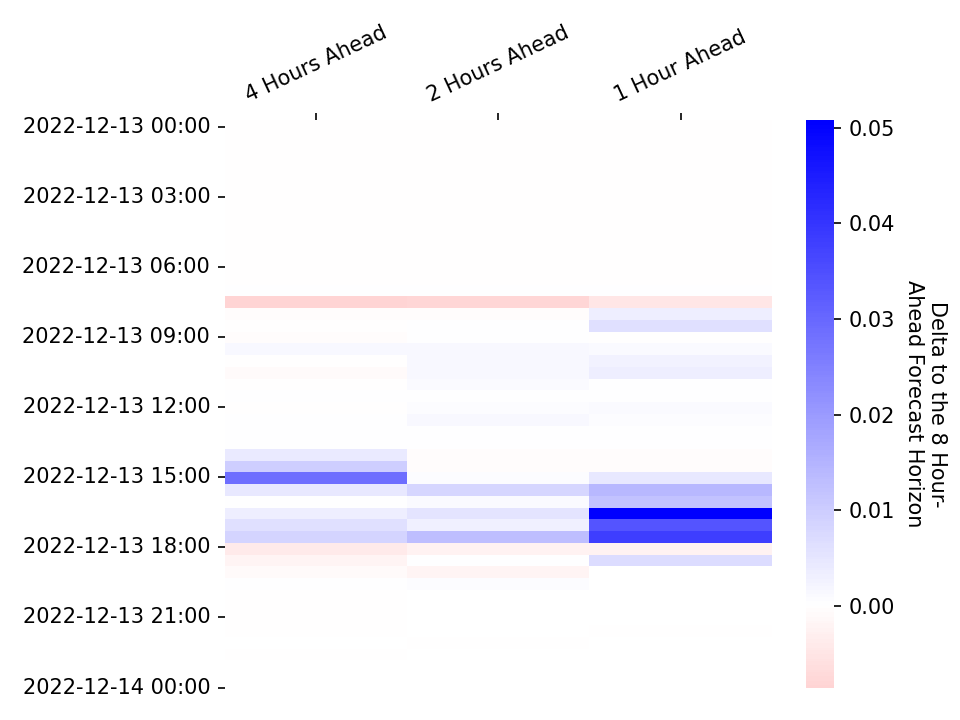
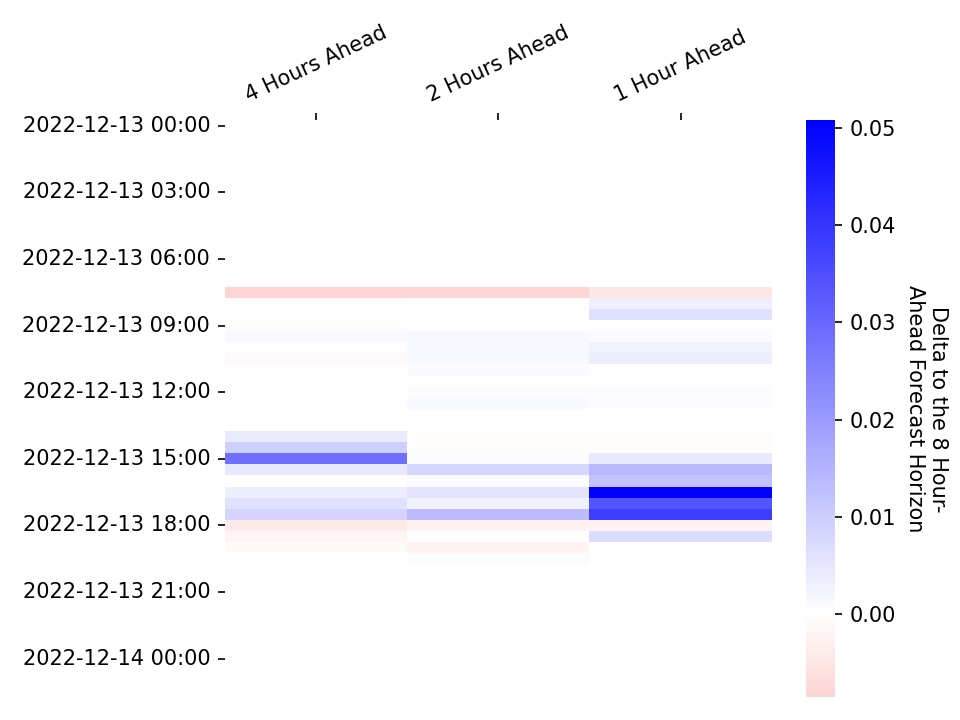
Apply automatic changes

diff --git a/docs/js/map.js b/docs/js/map.js
@@ -144,7 +144,7 @@ document.addEventListener("DOMContentLoaded", function() {
                 follow: 1
             });
             mymap.addControl(sliderControl);
-            sliderControl.startSlider(333);
+            sliderControl.startSlider(334);
         });
     });
 });

diff --git a/docs/visualisations.md b/docs/visualisations.md
@@ -60,7 +60,7 @@ In each settlement period the system operator publishes the de-rated margin fore
 * At 1200 hours on each calendar day for all Settlement Periods for which Gate Closure has not yet passed and which occur within the current Operational Day or the following Operational Day; and
 * At eight, four, two and one hour(s) prior to the beginning of the Settlement Period to which the De-Rated Margin Forecast relates.
 
-These figures will be updated on an hourly basis, the last update was at: 2022-12-13 21:35
+These figures will be updated on an hourly basis, the last update was at: 2022-12-13 22:10
 
 <br>
 
@@ -83,7 +83,7 @@ The following heatmap shows how the more recent de-rated margin forecasts deviat
 
 ### Power Output Map
 
-Last Updated: 2022-12-13 21:35
+Last Updated: 2022-12-13 22:10
 
 This map shows the power output of individual plants connected to the transmission grid as stated in their most recent Physical Notifications. This data can be retrieved through the *PHYBMDATA* BMRS stream, the out-turn data can be viewed one week later through the *B1610* stream. The scrollbar at the top of the map can be used to view how the generation sources have changed their output over the last week, the layer control can be used to toggle on/off the transmission network, and the plants themselves can be clicked to reveal additional information. The plant location data used in this map has been taking from a sister project, [the Power Station Dictionary](https://osuked.github.io/Power-Station-Dictionary/), which aims to link between data about individual power plants.
 
